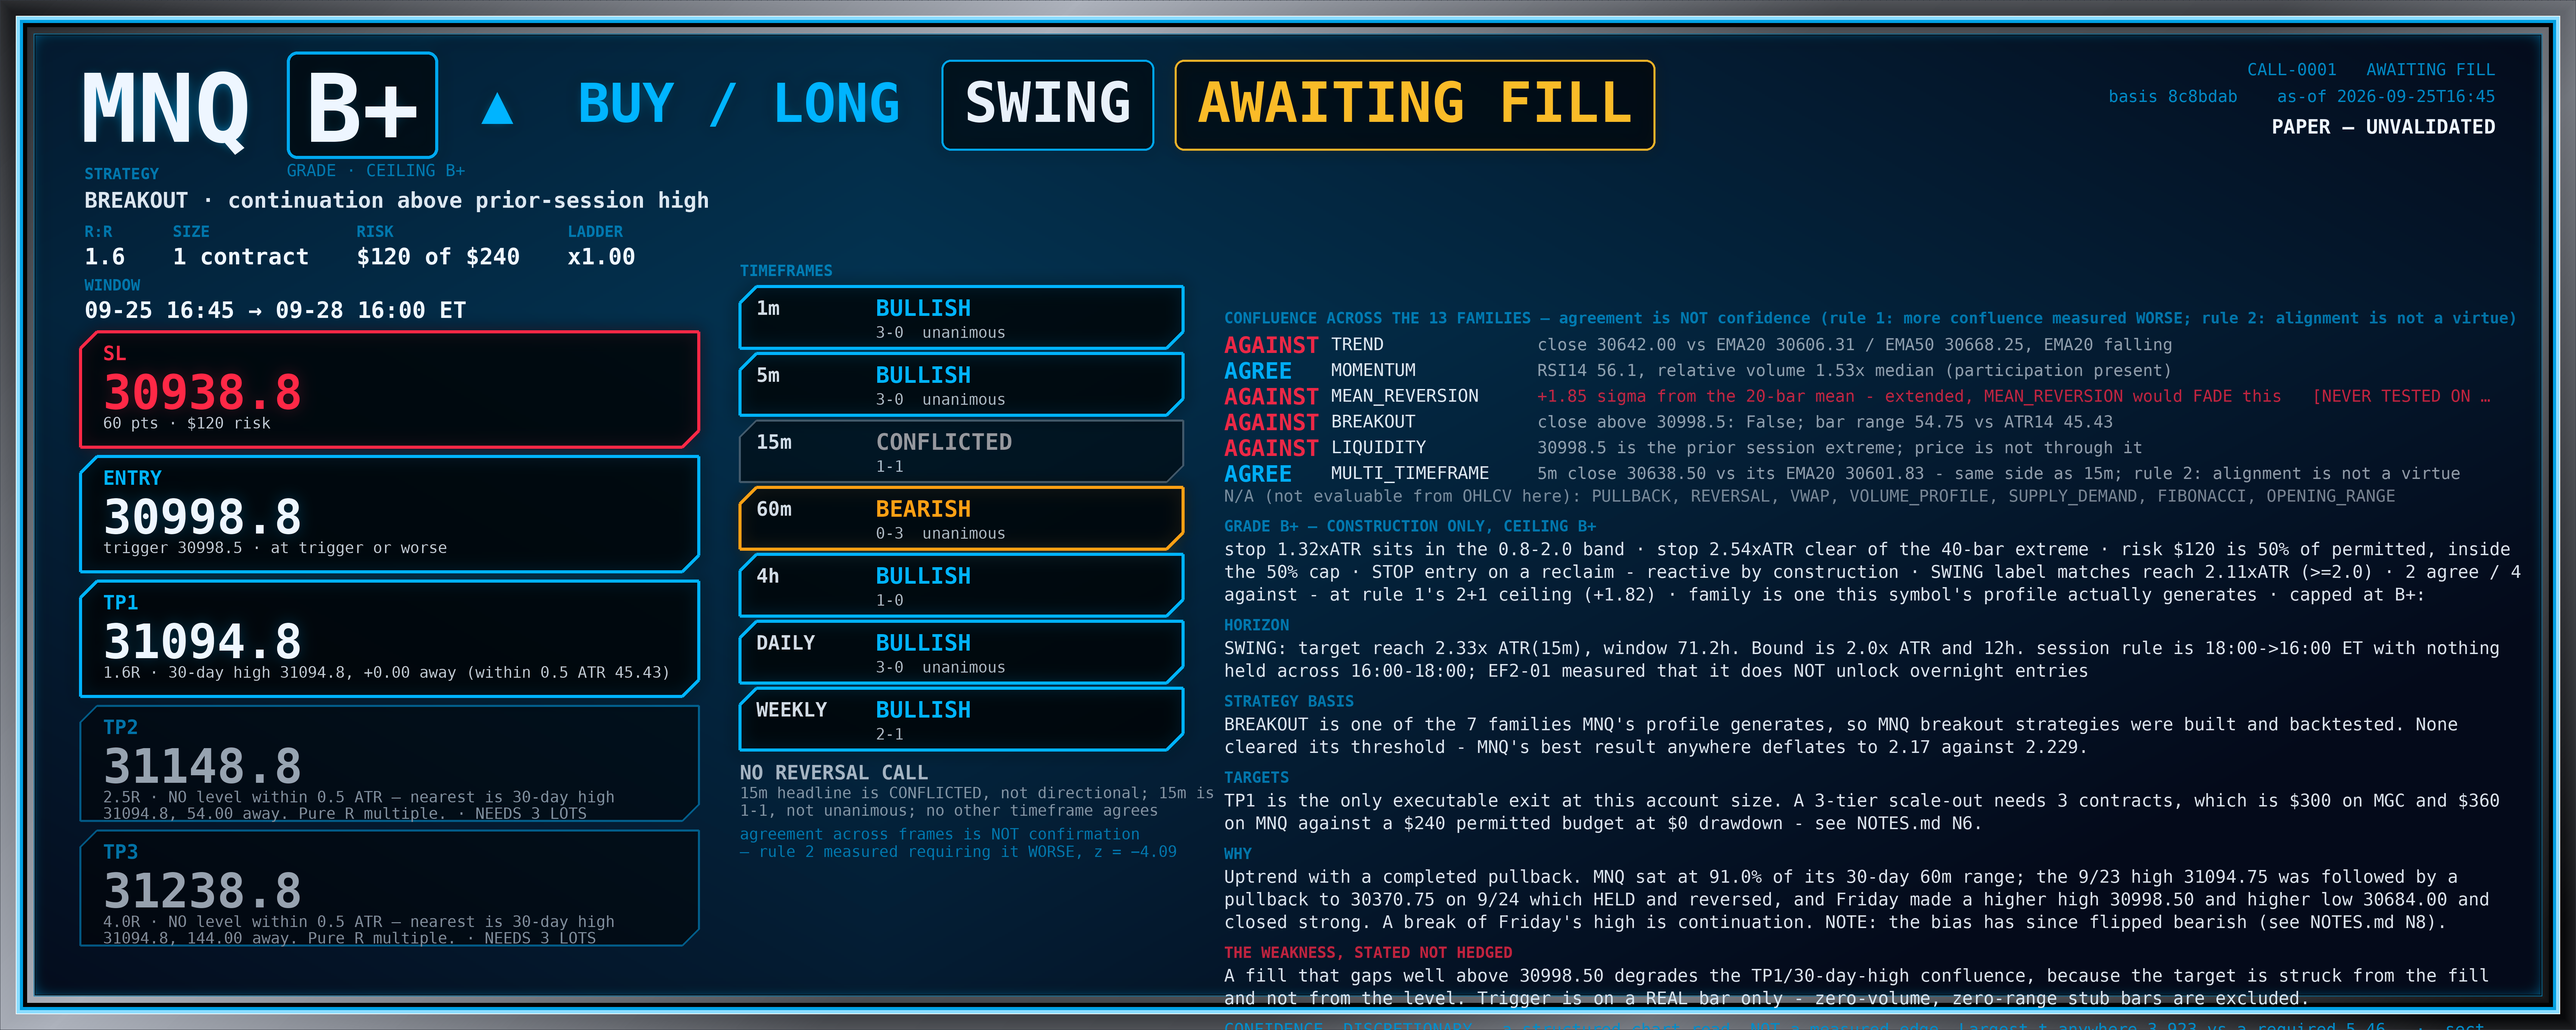
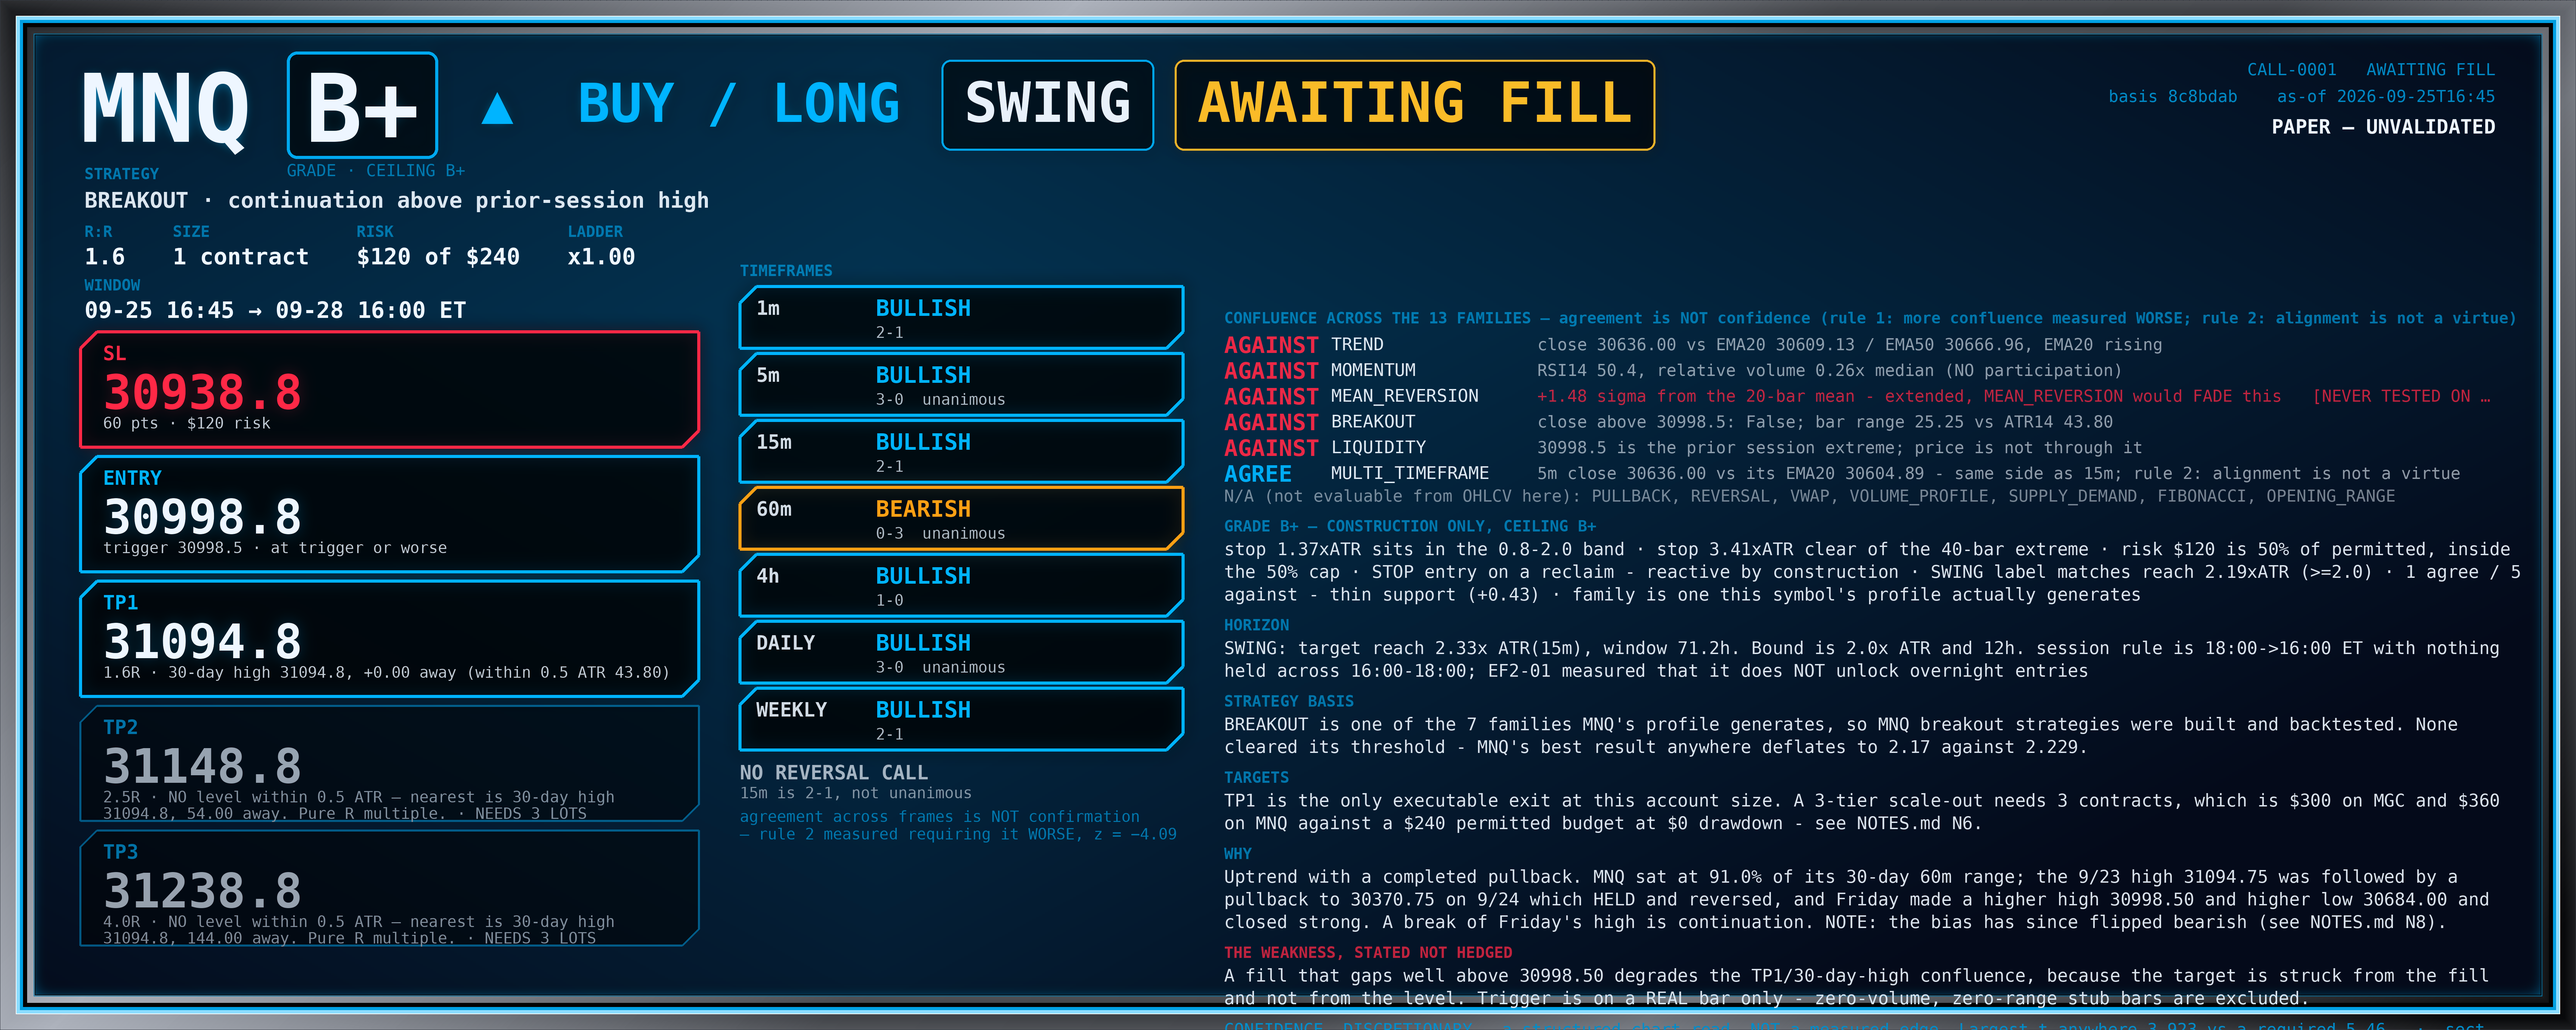
CALL desk: N129 - MNQ's 15m turns BULLISH and is TWO conditions from a REVERSAL call by a path that needs no sigma
Eleventh settled pair: MGC 4182.30 -> 4188.10 (+5.80), MNQ 30592.75 -> 30642.00 (+49.25),
MNQ's settled 07:15 bar closing at its high. MNQ's 15m headline is now BULLISH 2-1 - every
15m headline on both symbols has been BEARISH or CONFLICTED since the session began.

Read regime.py:130 reversal() instead of inferring from its printed line. A REVERSAL needs
FIVE conditions and is a SEPARATE path from reversal_setup() with no sigma gate at all. MNQ
passes three - directional headline, a prior BEARISH to reverse from, and five agreeing
timeframes (1m/5m/4h/DAILY/WEEKLY) - and fails two: 15m not unanimous (2-1) and held only 1
consecutive check, needs 2. Both are reachable within ~10 minutes.

This matters because N117/N118/N124 all reasoned about reversal_setup, whose sigma gate is
closed while MNQ is extended at +1.71. I had been treating "no reversal call" as one fact
when it is two independent tests, and the live one is the one I had not been watching.

N130: pre-committed what happens IF it fires, before it fires. If reversal() returns called
True I report a REVERSAL BULLISH headline through card_png.py - that is the standing rule and
not optional. The trade, if any, is a BUY LIMIT on a pullback and never a market entry: entry
at the 50% retracement of the settled up-leg from the last settled swing low to the last
settled swing high, recomputed at registration, and it must sit BELOW market or there is no
[…]

diff --git a/workspace/paper/CALL/NOTES.md b/workspace/paper/CALL/NOTES.md
@@ -4834,3 +4834,80 @@ displacement to trade and an unreachable reversal gate (N117).
 Newest settled 15m `07:00` on both; `07:15` settles at **07:43** — three minutes out — which also resolves
 MGC's 4193.40 pivot on the settled series. Two plans PENDING; ledger unchanged at open 0, closed 0, equity
 $50,000.00, drawdown $0.00. MGC RTH opens 08:20 ET, 40 minutes out.
+
+## N129 — MNQ's 15m headline has turned BULLISH, the first on either symbol all session, and it is TWO conditions from a REVERSAL call — by a path that does not need sigma
+
+Eleventh settled pair: MGC `07:00` 4182.30 -> `07:15` **4188.10** (+5.80); MNQ 30592.75 -> **30642.00**
+(**+49.25**). MNQ's settled `07:15` bar is `h 30642.75 l 30588.00 c 30642.00` — it closed at its high.
+
+**MNQ's 15m headline is now BULLISH 2-1.** Every 15m headline on both symbols has been BEARISH or
+CONFLICTED since the session began.
+
+I read `regime.py:130` `reversal()` instead of inferring its conditions from the printed line. A REVERSAL is
+called only when **five** conditions hold, and it is a **separate path from `reversal_setup()`** — it does
+**not** require sigma at all:
+
+| condition | MNQ now |
+|---|---|
+| 15m headline directional (not CONFLICTED) | **PASS** — BULLISH |
+| 15m unanimous | **FAIL** — 2-1 |
+| headline held >= 2 consecutive checks | **FAIL** — held 1 |
+| a prior directional headline of opposite sign exists | **PASS** — BEARISH all night |
+| at least one other timeframe agrees | **PASS** — 1m, 5m, 4h, DAILY, WEEKLY all BULLISH |
+
+**So MNQ is two conditions from a REVERSAL BULLISH call, and both are reachable within about ten minutes**:
+its 15m must reach 3-0 and hold BULLISH across two consecutive checks. This matters because N117/N118/N124
+all reasoned about `reversal_setup`, whose sigma gate is closed while MNQ is extended upward at +1.71 — and
+`reversal()` has no sigma gate. **I had been treating "no reversal call" as one fact when it is two
+independent tests, and the live one is the one I had not been watching.**
+
+## N130 — pre-committing what happens IF that reversal fires, before it fires
+
+A REVERSAL is a **directional headline**, not automatically a trade, and MNQ at 39.7% of range with sigma
++1.71 is extended — entering at market would be the chase the procedure forbids. So, written now while the
+call has not fired:
+
+1. **If `reversal()` returns `called: True` on MNQ, I report a REVERSAL BULLISH headline**, rendered through
+   `card_png.py` so it carries its colour. That is what the standing rule requires and it is not optional.
+2. **The trade, if any, is a BUY LIMIT on a pullback — never a market entry.** Entry at the **50%
+   retracement of the settled up-leg**, measured from the last settled swing **low** to the last settled swing
+   **high**, both taken from the settled 15m series and recomputed at the moment of registration, never carried
+   from this note. It must sit **below** the market or there is no plan.
+3. **Stop** below the settled swing low that anchors the leg, at least **0.5x ATR14(15m)**, ATR re-measured
+   then.
+4. **1 contract; void if `stop_points x $2 > $120`.**
+5. **Expiry the 09:30 ET RTH-open bar.** Overnight is outside everything measured.
+6. **TP1 1.5R executable; TP2 2.5R and TP3 3.5R marked `NEEDS 3 LOTS`**, bare R multiples named as such.
+7. **Weakness in advance:** rule 2's z = −4.09 counts against the HTF agreement condition 5 leans on; rule 7
+   says sub-hourly is a graveyard and this is a 15m headline; and the plan may simply never fill, which is how
+   both of tonight's resolved plans died.
+
+**Arithmetic on today's numbers, purely to show it is expressible** — these get recomputed at registration:
+settled swing low 30547.75 (`06:00`), settled swing high 30644.00 (`07:00`), leg **96.25**, 50% entry
+**30595.88**, stop 30540.00, distance **55.88 points = $111.76** against the $120 cap, and 1.23x the 45.41
+ATR. **It fits, with $8.24 of headroom.** That is the opposite of the MGC plan's problem, and it is the first
+plan tonight that both sizes and has a reachable trigger.
+
+## N131 — MGC's structure has reverted to MIXED, and BOTH its legs are now inside noise
+
+MGC settled swings: highs `4192.00 -> 4193.40`, lows **`4183.90 -> 4180.20`** — a *lower* low, so the BULL
+label from N123 is gone and `chart.py` reads **MIXED** again. Measured against the floors:
+
+- higher high **1.40** vs 6.20 -> inside noise
+- lower low **3.70** vs 6.80 -> inside noise
+
+**Both legs of MGC's structure reading are now smaller than the feed's own revisions.** N123 recorded MGC's
+higher low at 11.30 as established; that leg has since been replaced by a lower low that is not. So MGC's
+structure label carries no information at all right now, in either direction.
+
+Also: MGC's 4193.40 pivot **confirmed on the settled series**, exactly as N121 predicted for ~07:43 — the
+`07:15` bar settled with `h 4188.20`, below 4193.40, so the pivot formed and the settled comparison moved to
+`4192.00 -> 4193.40`. Twelfth machinery prediction to hold, and the timing correction from 07:21 was the
+reason it landed on the right minute.
+
+MGC frames: 1m BEAR 0-3 unanimous, 5m BEAR 0-1, 15m BEAR 0-2, 60m BEAR 0-3 unanimous. Location 14.8% of
+[4172.60, **4251.10**]. Sixth consecutive check with MGC within 0.4 sigma of its mean.
+
+No call this check — MNQ's reversal has not fired and buying it extended is forbidden; MGC has nothing. Two
+plans PENDING; ledger unchanged at open 0, closed 0, equity $50,000.00, drawdown $0.00. MGC RTH opens 08:20
+ET, 35 minutes out; MNQ RTH 09:30.
